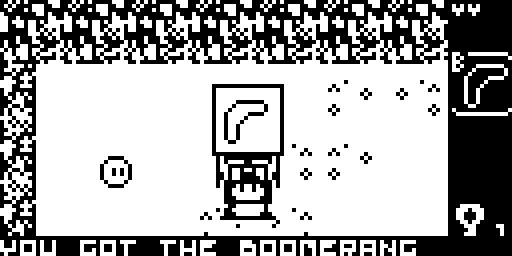
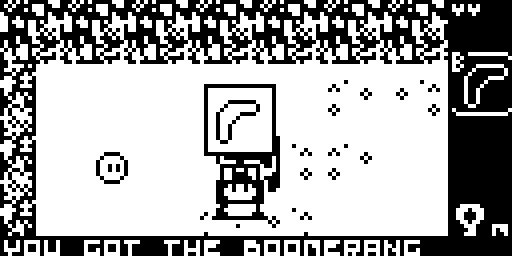
toast, start at x=1

diff --git a/toast.cpp b/toast.cpp
@@ -13,6 +13,6 @@ void Toast::render(Renderer* renderer) {
         Toast::duration -= 1;
 
         renderer->fillRect(0, HEIGHT - 5, WIDTH, 5, BLACK);
-        renderer->print(0, HEIGHT - 4, Toast::msg);
+        renderer->print(1, HEIGHT - 4, Toast::msg);
     }
 }
